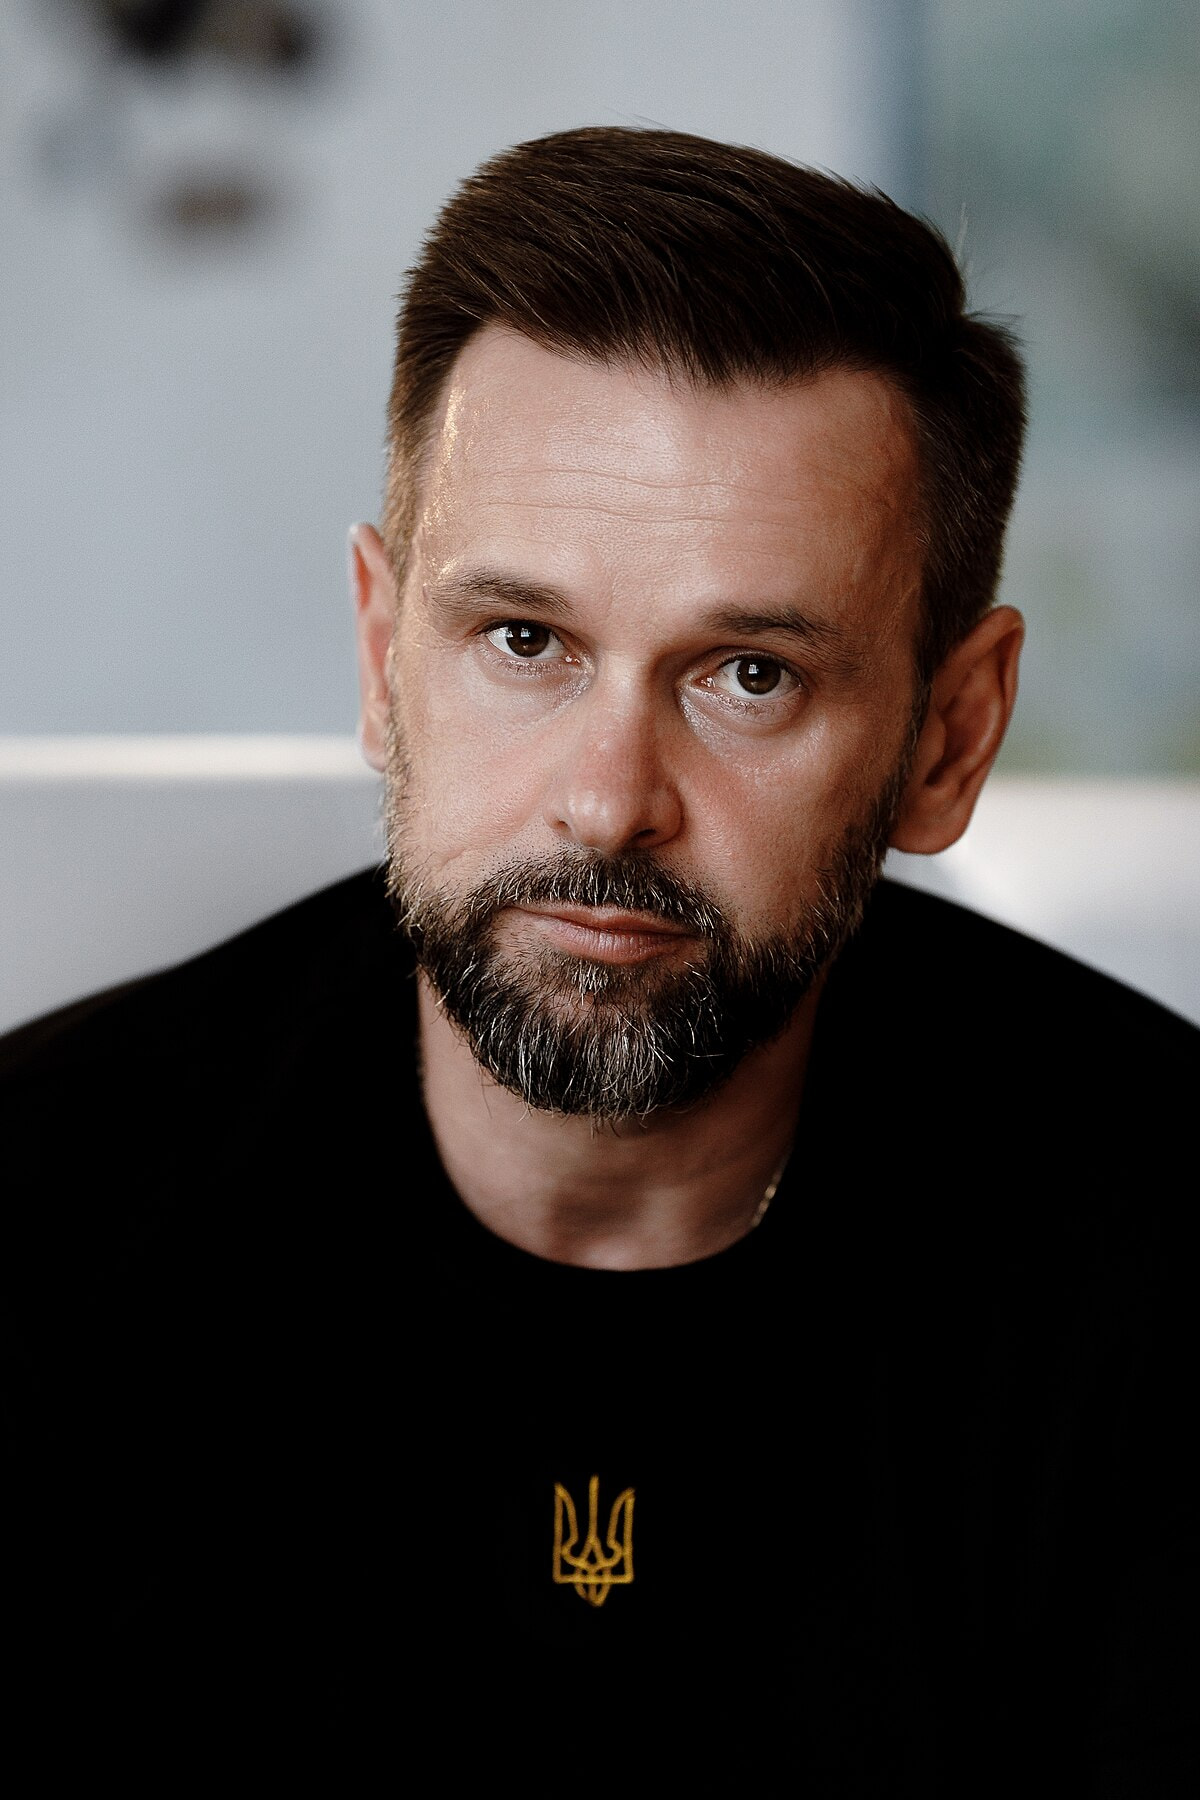
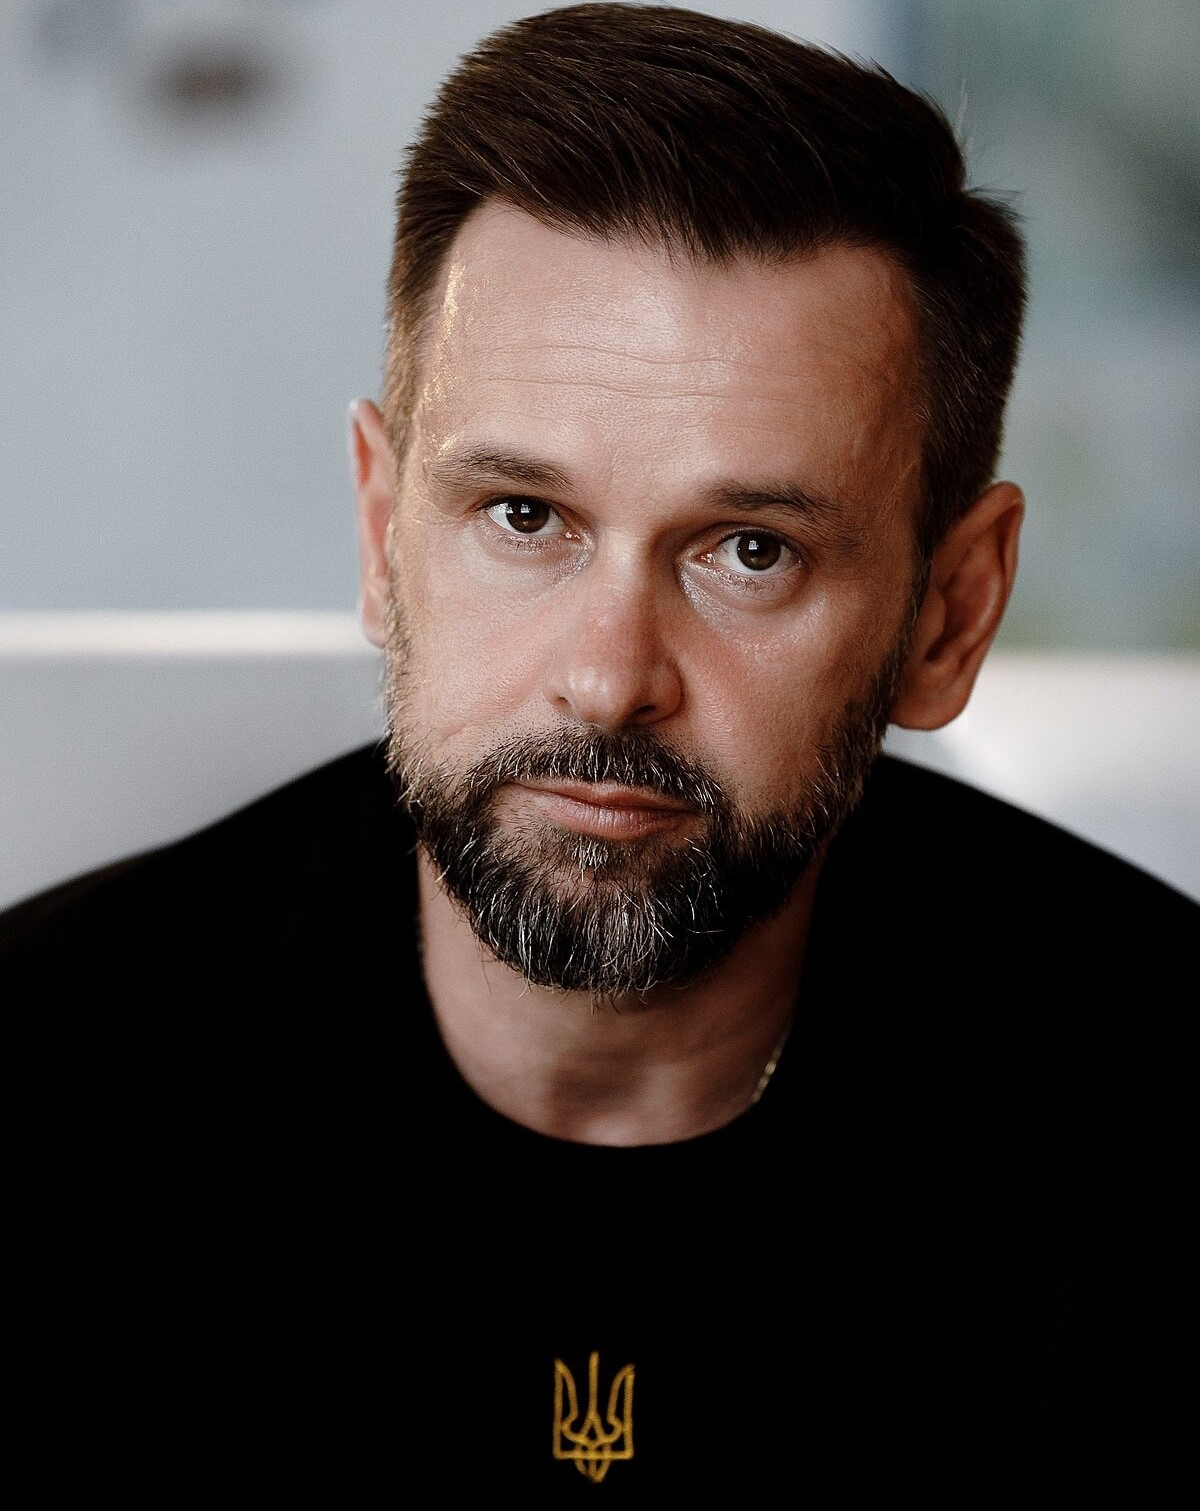
cut ambasssador and team images
- cut ambasssador and team images
- change height of some elements
- change pages to view in team slider

diff --git a/index.html b/index.html
@@ -802,7 +802,7 @@
         <h2 class="section-title">НАША КОМАНДА</h2>
         <div class="ambassadors-list slider-team-js">
           <div class="ambassadors-item team-item">
-            <div class="ambassadors-imageWrap team-imageWrap">
+            <div class="team-imageWrap">
               <img
                 class="ambassadors-image"
                 src="./images/team/team-hajdyk.jpg"
@@ -855,7 +855,7 @@
             </div>
           </div>
           <div class="ambassadors-item team-item">
-            <div class="ambassadors-imageWrap team-imageWrap">
+            <div class="team-imageWrap">
               <img
                 class="ambassadors-image"
                 src="./images/team/team-hajdyk.jpg"
@@ -908,7 +908,7 @@
             </div>
           </div>
           <div class="ambassadors-item team-item">
-            <div class="ambassadors-imageWrap team-imageWrap">
+            <div class="team-imageWrap">
               <img
                 class="ambassadors-image"
                 src="./images/team/team-mashukevich.jpg"
@@ -958,7 +958,7 @@
             </div>
           </div>
           <div class="ambassadors-item team-item">
-            <div class="ambassadors-imageWrap team-imageWrap">
+            <div class="team-imageWrap">
               <img
                 class="ambassadors-image"
                 src="./images/team/team-mashukevich.jpg"

diff --git a/styles.css b/styles.css
@@ -1442,22 +1442,32 @@ textarea {
   height: 270px;
 }
 
+.team-imageWrap {
+  border-radius: 10px;
+  overflow: hidden;
+  margin-bottom: 16px;
+  height: 250px;
+}
+
 @media screen and (max-width: 767.99px) {
   .team-imageWrap {
-    height: 341px;
+    height: 250px;
   }
 }
 
 .ambassadors-image {
   object-fit: cover;
+  object-position: center 35%;
   height: 100%;
 }
 
 .ambassadorsData-wrap {
+  height: 140px;
   padding-top: 8px;
   display: flex;
   flex-direction: column;
   align-items: center;
+  justify-content: space-between;
   gap: 8px;
 
   border-top: 2px solid #c8dad1;
@@ -1465,6 +1475,7 @@ textarea {
 
 .teamData-wrap {
   align-items: flex-start;
+  justify-content: flex-start;
   height: 250px;
   overflow-y: scroll;
   scrollbar-width: none; /* Firefox */

diff --git a/index.js b/index.js
@@ -327,7 +327,7 @@ function slidersConfig() {
       {
         breakpoint: 1024,
         settings: {
-          slidesToShow: 3,
+          slidesToShow: 2,
           slidesToScroll: 1,
           infinite: true,
           arrows: true,
